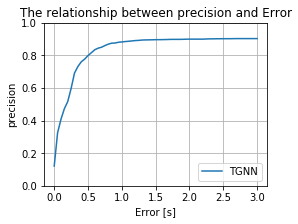
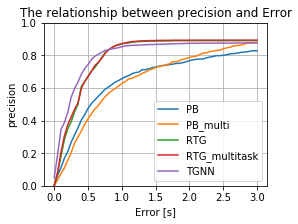
modify run/

Changed region(s): [[0.1812, 0.1562, 0.8758, 0.8438], [0.5134, 0.4375, 0.906, 0.8125]]

diff --git a/run.py b/run.py
@@ -15,10 +15,10 @@ def main():
                         help='0 _ VAD, 1 _ 画像, 2 _ 言語, 3 _ VAD+画像, 4 _ VAD+言語, 5 _ 画像+言語, 6 _ VAD+画像+言語')
     parser.add_argument('-t', '--task', type=bool, default=False,
                         help='true: multitask, false: singletask')
-    parser.add_argument('-s', '--seed', type=int, default=0)
+    parser.add_argument('-s', '--seed', type=int, default=2)
     parser.add_argument('--target_type', action='store_true',
                         help='if True, target shape is 3(A,B,unknown), False is 1(A/B)')
-    parser.add_argument('-o', '--out', type=str, default='./logs/ctc/0105/vip0.6/seed0')
+    parser.add_argument('-o', '--out', type=str, default='./logs/ctc/0105/vip0.4/seed2')
     parser.add_argument('-e', '--epoch', type=int, default=30)
     parser.add_argument('-r', '--resume', type=str, default=True)
     parser.add_argument('--hang', type=str, default=False)

diff --git a/postprocess.py b/postprocess.py
@@ -70,7 +70,7 @@ IDX = 105
 #                 'logs/ctc/1225/vip/seed2/0/epoch_6_loss_0.0759_score0.615.pth'
 # ]
 
-model_paths = ['logs/ctc/0105/vip/seed0/202101051114/epoch_5_loss_0.1371_score0.593.pth'] 
+model_paths = ['logs/ctc/0105/vip0.4/seed0/202101051327/epoch_6_loss_0.1576_score0.430.pth'] 
 # model_paths = [
 #                 'logs/ctc/1225/vip/seed0/0/epoch_12_loss_0.1102_score0.615.pth',
 #                 'logs/ctc/1225/vip/seed1/0/epoch_6_loss_0.0865_score0.627.pth',

diff --git a/models/model.py b/models/model.py
@@ -25,7 +25,7 @@ class TGNN(nn.Module):
         self.criterion = nn.MSELoss()
         self.max_frame = max_frame
         self.thres1 = 0.8
-        self.thres2 = self.get_threshold(max_frame, thres=0.6)  # list型 0~max_frameまでで動的に閾値を持つ
+        self.thres2 = self.get_threshold(max_frame, thres=0.4)  # list型 0~max_frameまでで動的に閾値を持つ
         self.thres_up = 0.5
         self.r = 1.0
 
